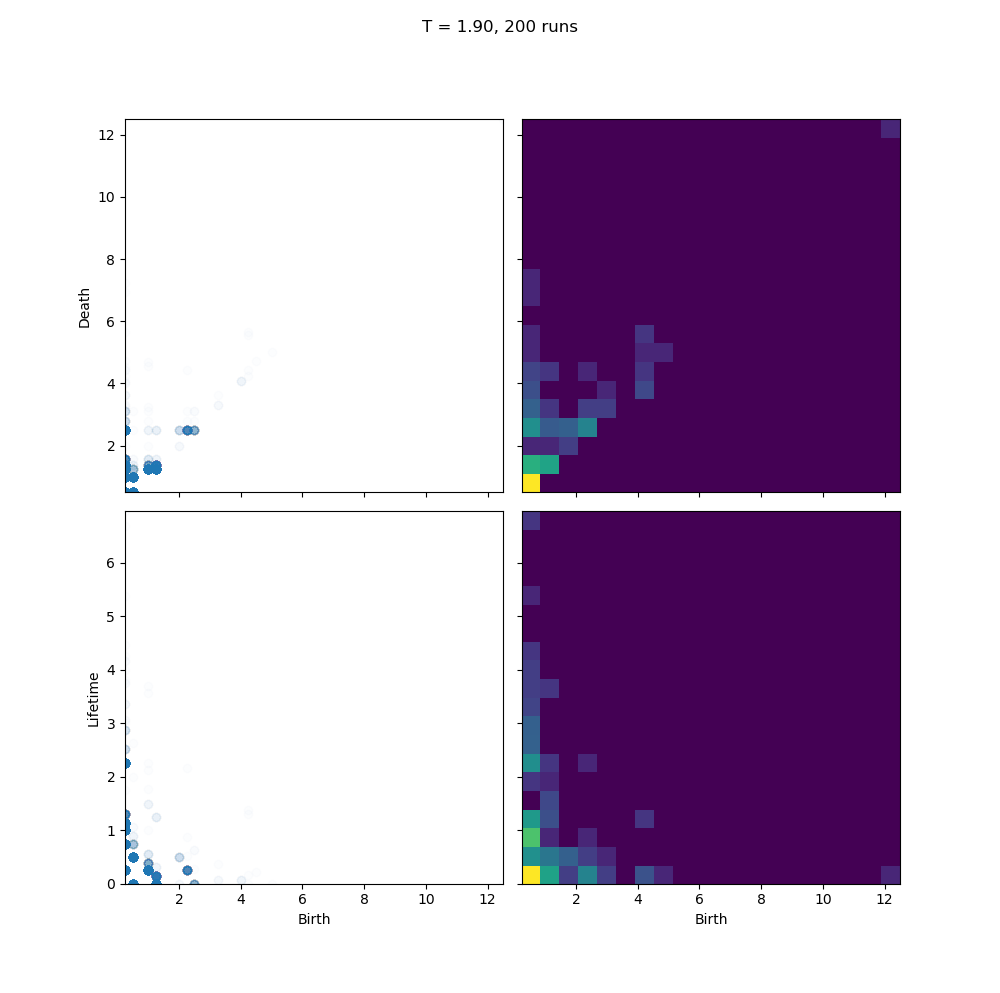
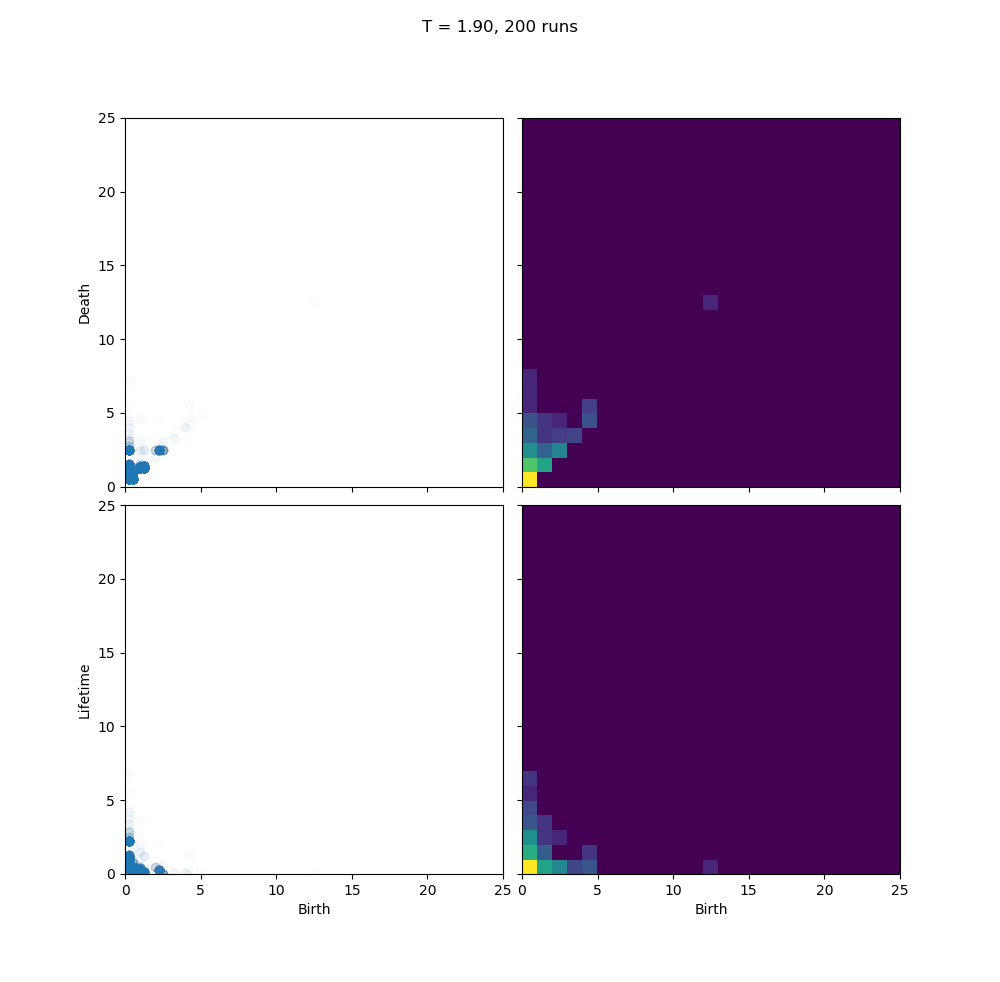
Consistant binning for hist2d

diff --git a/Persist.py b/Persist.py
@@ -25,7 +25,7 @@ print("Alpha complexes constructed")
 # Appropriate value of α^2? Needs to be smaller than N to get
 # the speed-up, but large enough to capture all of the interesting stuff...
 # Leave unspecified?
-simplexTrees = [ac.create_simplex_tree(max_alpha_square=30)
+simplexTrees = [ac.create_simplex_tree(max_alpha_square=25)
                 for ac in alphaComplexes]
 print("Simplex trees created")
 
@@ -58,12 +58,12 @@ fig.suptitle("T = %.2f, %s runs" % (T, len(data)))
 
 axes[0, 0].scatter(h1born, h1death, alpha=0.01)
 axes[0, 0].set_ylabel('Death')
-axes[0, 1].hist2d(h1born, h1death, bins=20,
+axes[0, 1].hist2d(h1born, h1death, bins=25, range=[[0, 25], [0, 25]],
                   norm=colors.SymLogNorm(linthresh=1))
 axes[1, 0].scatter(h1born, h1death - h1born, alpha=0.01)
 axes[1, 0].set_ylabel('Lifetime')
 axes[1, 0].set_xlabel('Birth')
-axes[1, 1].hist2d(h1born, h1death - h1born, bins=20,
+axes[1, 1].hist2d(h1born, h1death - h1born, bins=25, range=[[0, 25], [0, 25]],
                   norm=colors.SymLogNorm(linthresh=1))
 axes[1, 1].set_xlabel('Birth')
 pyplot.show()
